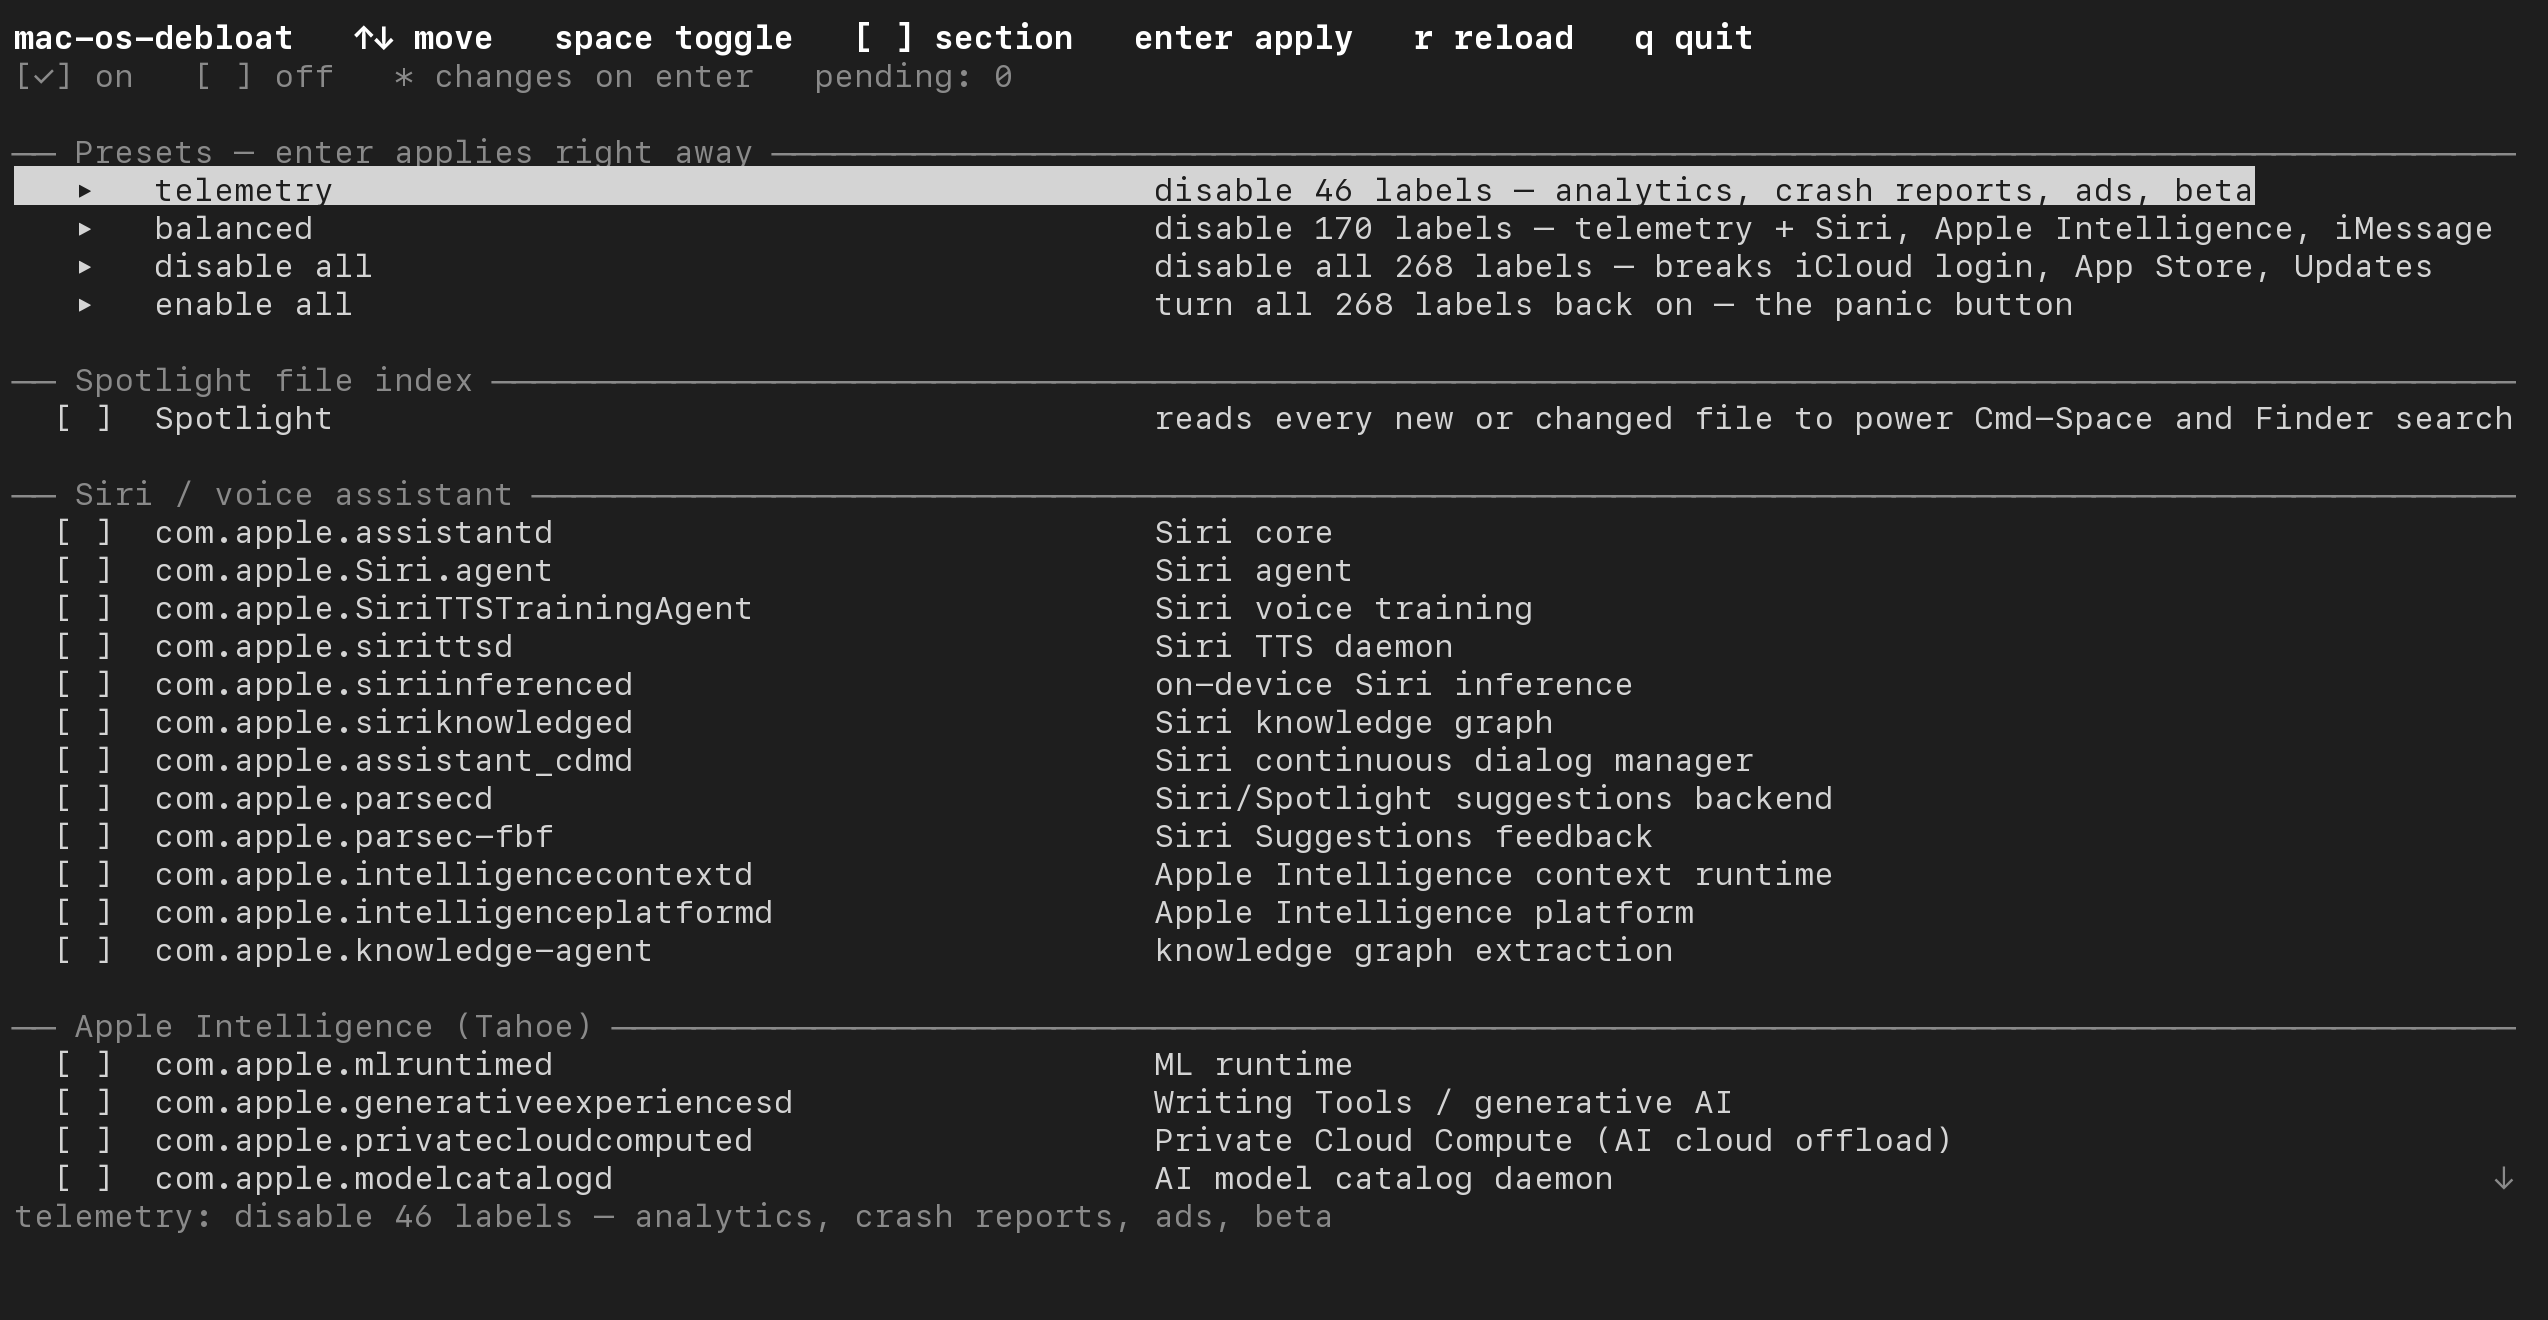
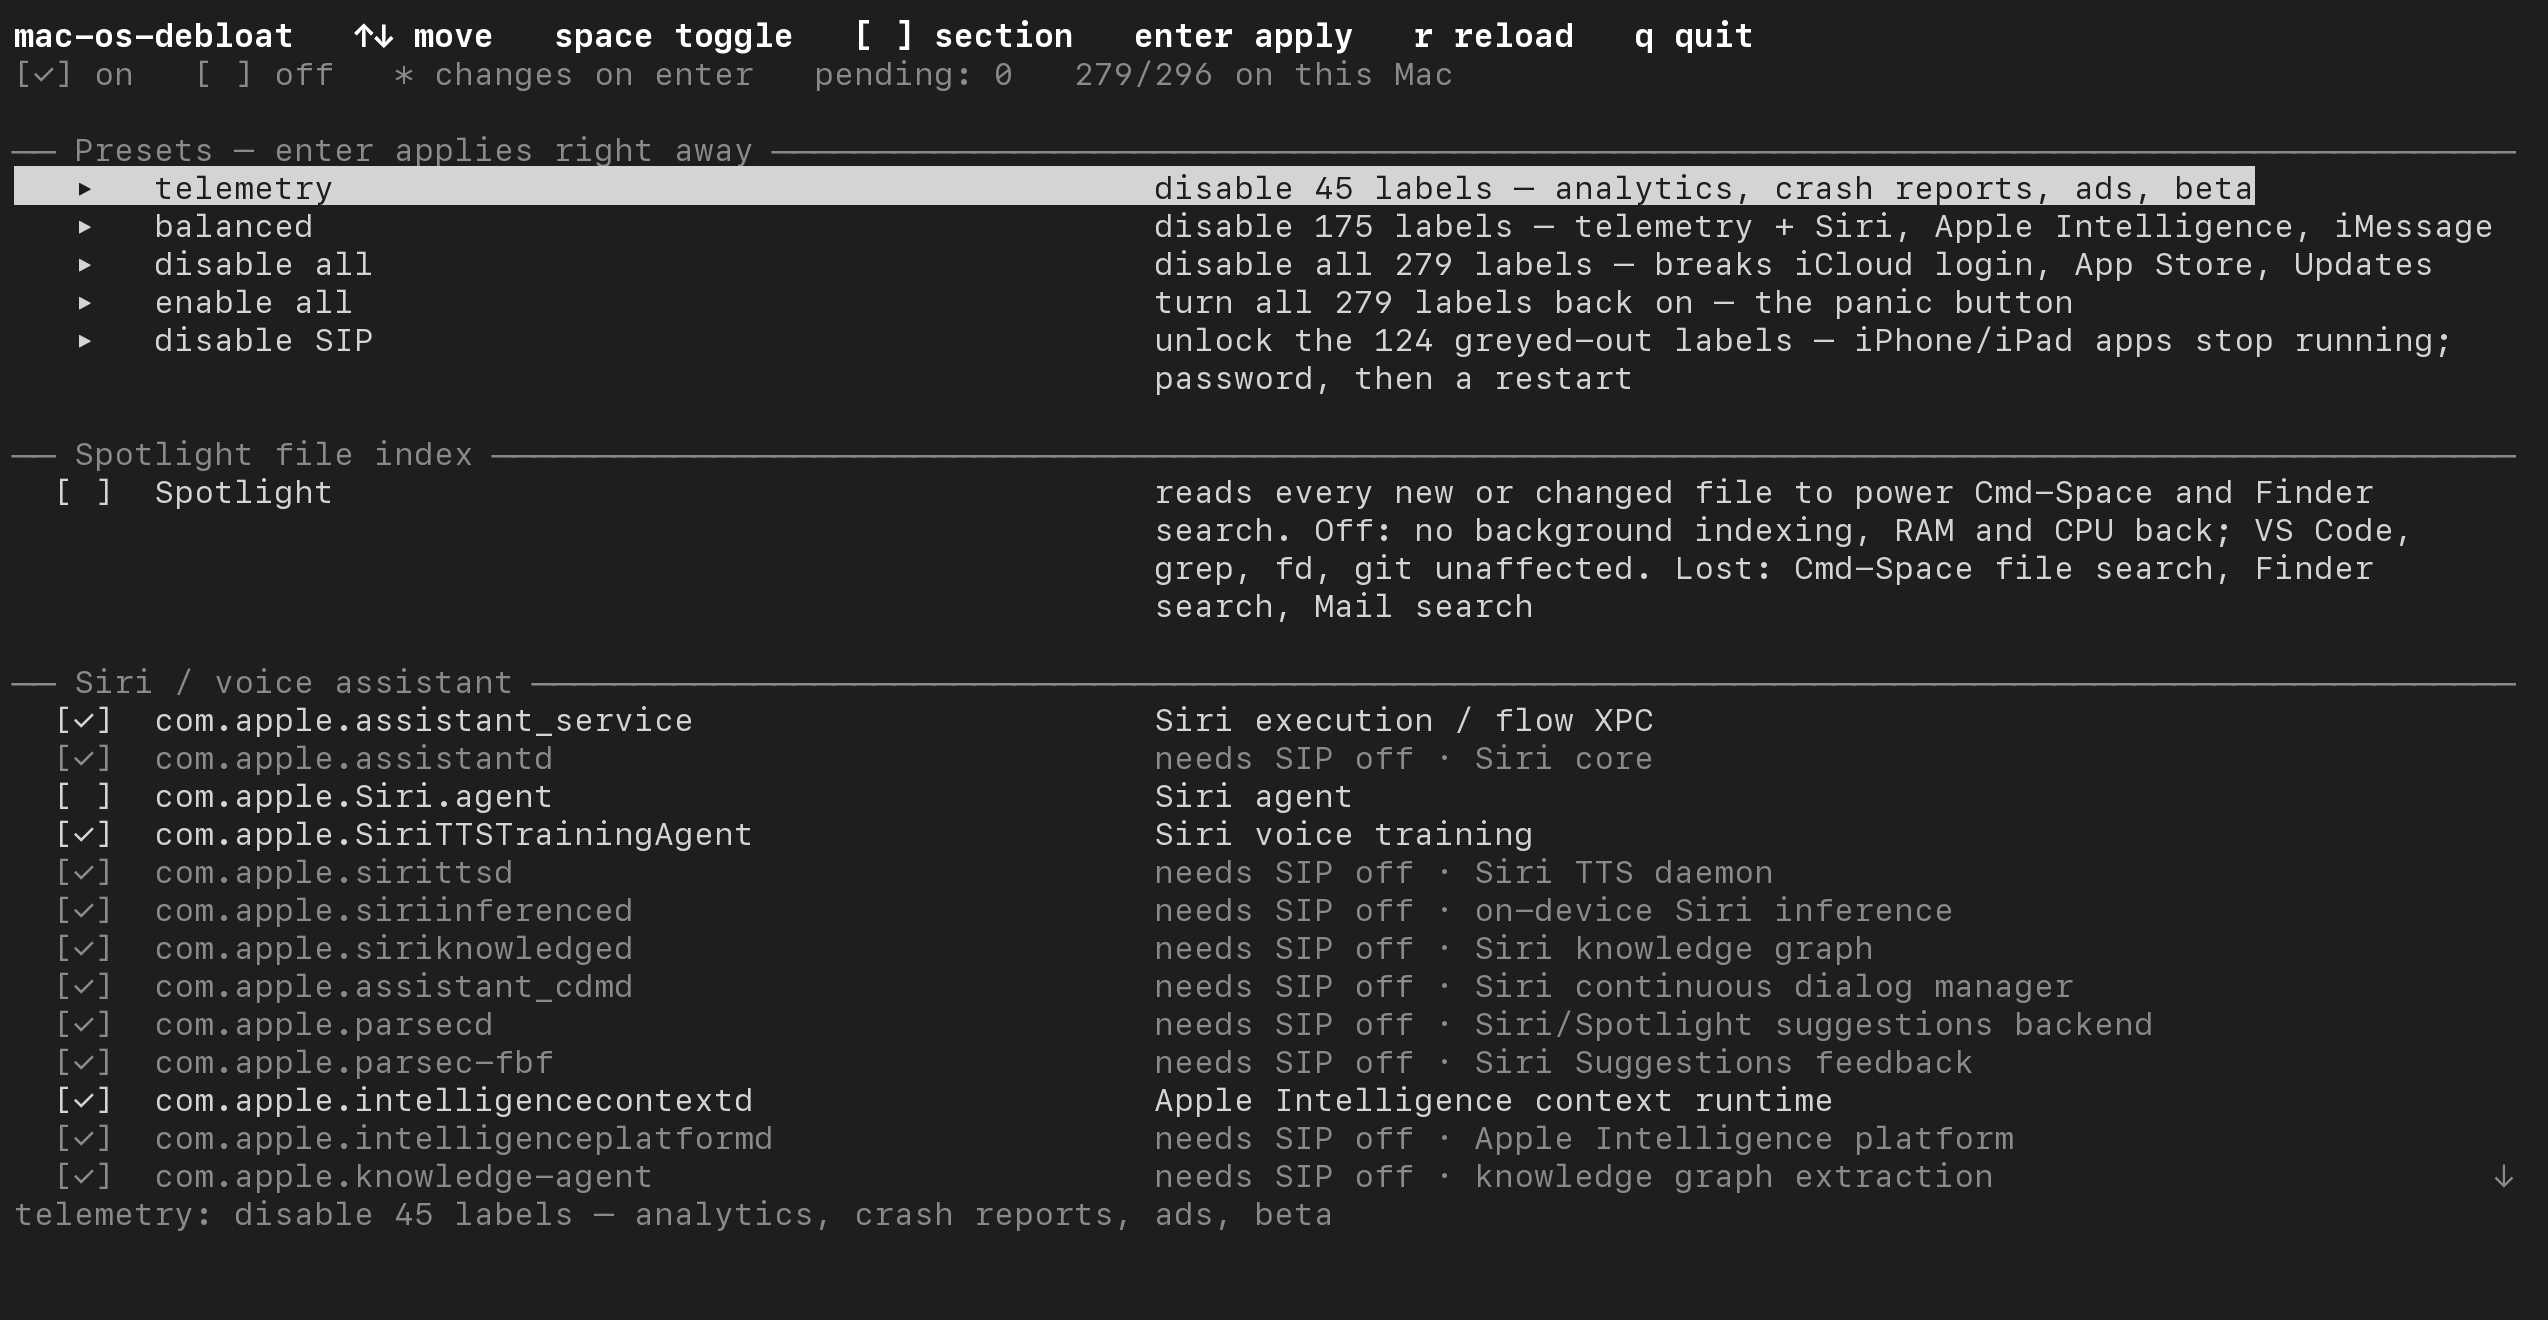
docs: equal install commands, current TUI screenshot (0.13.1) (#27)
curl, npx and Homebrew shown as equal install commands; screenshot of the current TUI; clearer SIP and preset counts.

Claude-Session: https://claude.ai/code/session_015KdPDuYyZmyy3Uw4RNeBMQ

diff --git a/README.md b/README.md
@@ -2,7 +2,7 @@
 
 **Turn off the Apple background services you don't use — from the terminal, in one keystroke, fully reversible.**
 
-Interactive console util to disable 296 non-essential macOS launchd services — Siri, Apple Intelligence, telemetry, ads, and the Apple apps you don't use — plus the Spotlight file index. macOS Tahoe 26 and Golden Gate 27, Apple Silicon. No install, no dependencies.
+Interactive console util to disable 296 non-essential macOS launchd services — Siri, Apple Intelligence, telemetry, ads, and the Apple apps you don't use — plus the Spotlight file index. macOS Tahoe 26 and Golden Gate 27, Apple Silicon. Needs nothing but `python3`.
 
 - **~1.5-2 GB of RAM back** on a 16 GB M4 ([how that was measured](#why)).
 - **Keeps them off across reboots.** With SIP on, macOS re-enables disabled services at every boot; a small boot daemon, installed on your first apply, disables them again. With SIP off they stay off on their own.
@@ -10,21 +10,21 @@ Interactive console util to disable 296 non-essential macOS launchd services —
 - **The desktop is never touched.** WindowServer, Finder, Dock, audio, networking and security aren't in the catalog at any setting.
 - **One key undoes everything.** `enable all` / `--enable-all`, or `--restore` to go back to exactly how it was before your last apply.
 
+Run it with any one of these:
+
+```bash
+curl -fsSL https://raw.githubusercontent.com/OleksandrKrupko/mac-os-debloat/main/debloat | python3
+```
+
 ```bash
 npx -y @oleksandr_krupko/mac-os-debloat
 ```
 
-<details>
-<summary>curl · Homebrew</summary>
-
 ```bash
-curl -fsSL https://raw.githubusercontent.com/OleksandrKrupko/mac-os-debloat/main/debloat | python3
 brew install OleksandrKrupko/debloat/debloat && debloat
 ```
 
-All methods need `python3`, which ships with the Xcode Command Line Tools (`xcode-select --install`).
-
-</details>
+`python3` ships with the Xcode Command Line Tools (`xcode-select --install` if it's missing).
 
 ![mac-os-debloat TUI — preset menu on top, then the Spotlight row and 296 launchd services grouped by section, space to toggle, enter to apply](https://raw.githubusercontent.com/OleksandrKrupko/mac-os-debloat/main/screenshot.png)
 
@@ -36,7 +36,7 @@ System Integrity Protection decides how much macOS lets you keep off.
 |---|---|---|
 | Labels you can disable | 172 | all 296 |
 | After a reboot | the boot daemon disables them again | they stay off on their own |
-| Measured on macOS 26.5 (VM) | 149 of 273 loaded labels stayed off · 55% | 273 of 273 stayed off · 100% |
+| Measured on macOS 26.5 (VM), after reboots | all 149 SIP-on labels stayed off — 55% of the 273 loaded | all 273 stayed off — 100% |
 | Cost | none | iPhone/iPad apps stop running on the Mac; root processes can modify system files and load unsigned kernel extensions |
 
 With SIP on, the other 124 labels — marked `[sip-off]`, greyed out in the TUI — are restarted by macOS within seconds of a kill, so the tool leaves them alone.
@@ -77,6 +77,8 @@ A preset disables its own labels, leaves everything else as it is, and never re-
 | `--preset telemetry` | 45 | 25 | nothing — analytics, crash reports, Apple ads, Biome, beta enrollment |
 | `--preset balanced` | 181 | 100 | Siri, Apple Intelligence, iMessage/FaceTime/Continuity, Family, News/Stocks/Weather |
 | `--disable-all` | 296 | 172 | balanced, plus Safari, Photos, Mail/Calendar/Contacts, Music/TV/Books, Maps, Time Machine, Screen Time, HomeKit, printing, iCloud sync — and **iCloud login, App Store purchases, macOS Update installs, and on macOS 27 Cmd-Space / the four-finger Apps pinch break** |
+
+Counts are for the full catalog; the TUI shows only the labels present on your macOS build, so its numbers are a little lower.
 
 Neither preset touches Apple ID auth, App Store commerce, FairPlay or bridgeOS — 28 labels only `--disable-all` or your own preset reach. 115 labels sit between `balanced` and `--disable-all`; pick those yourself:
 
